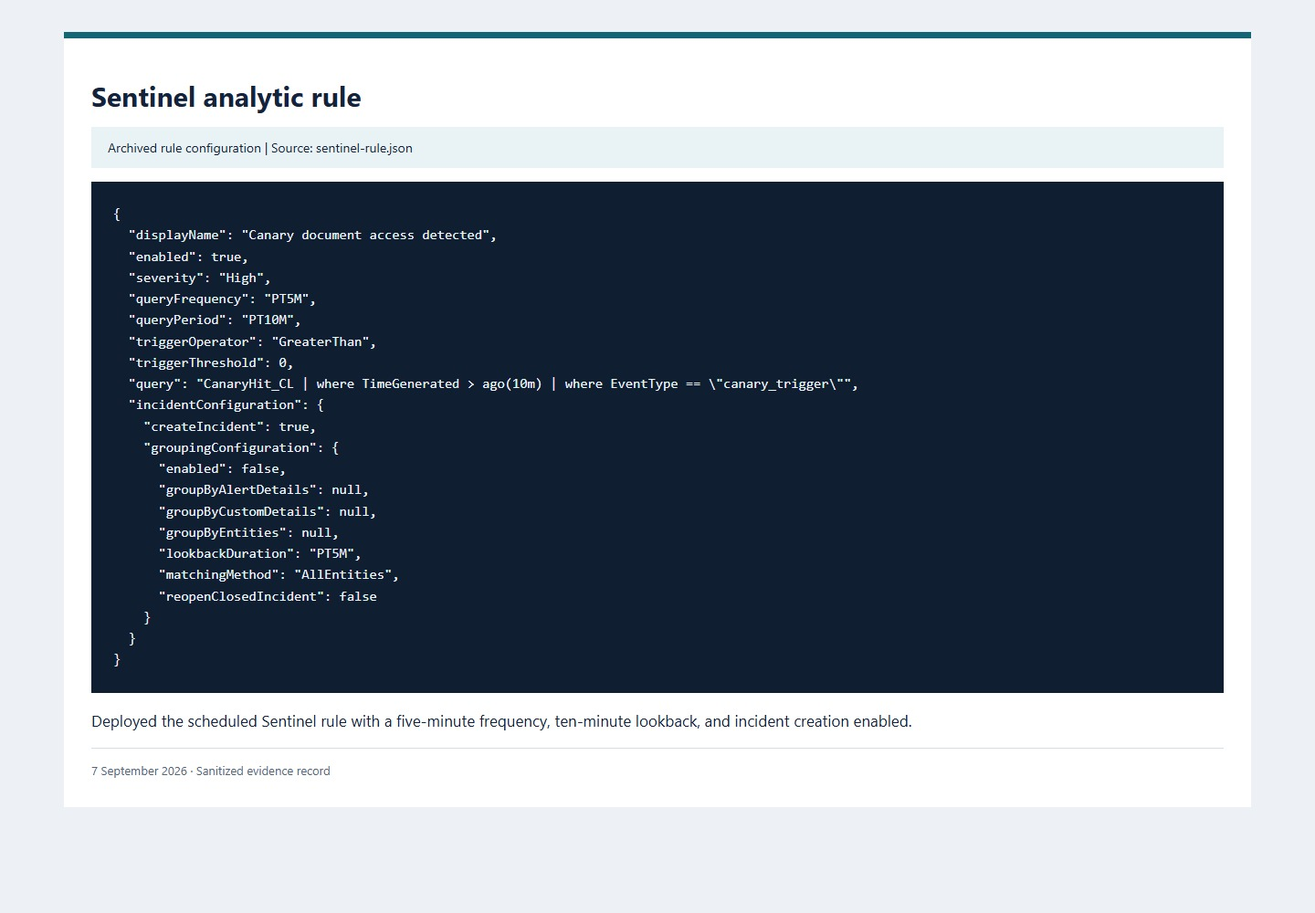
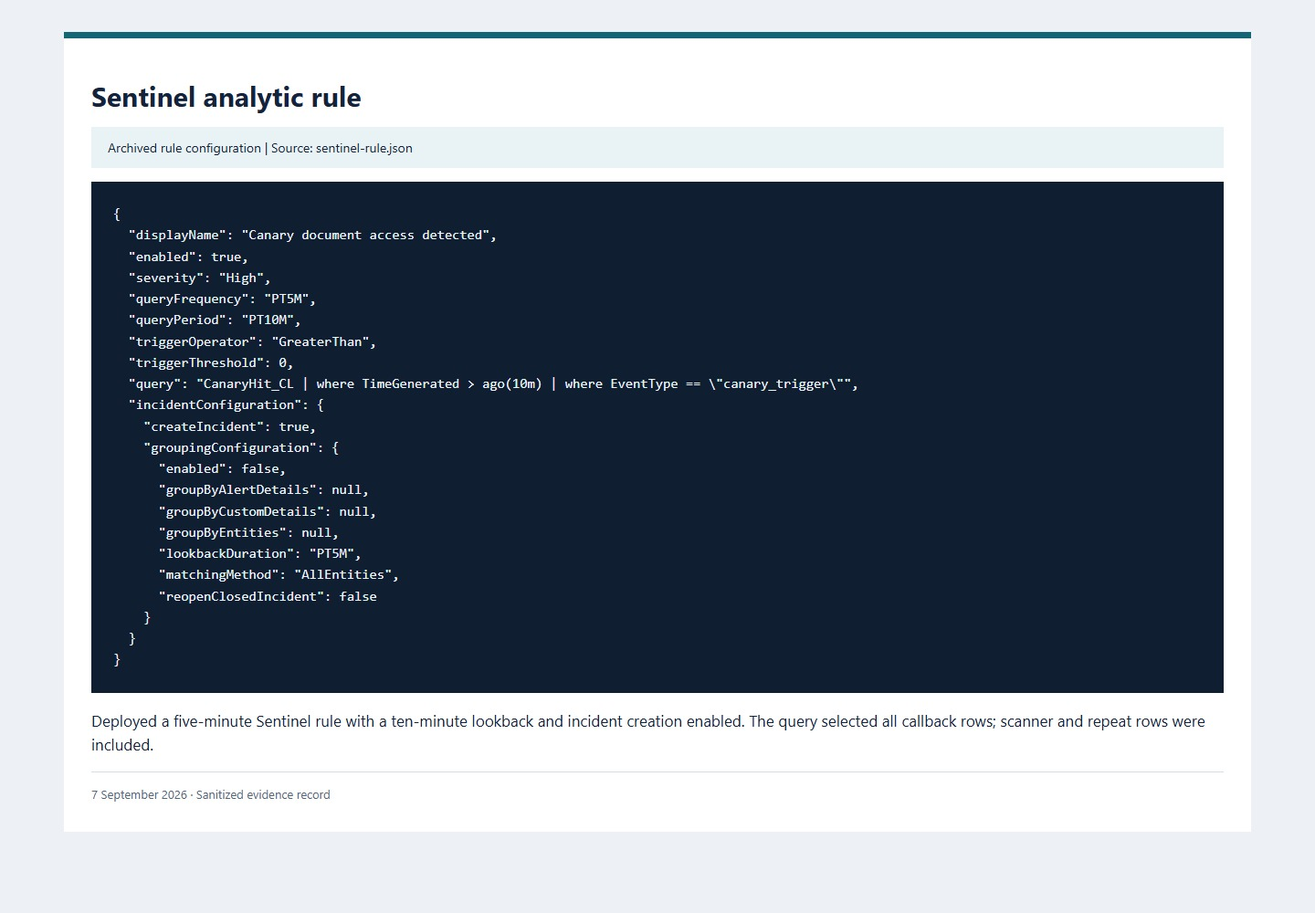
Tighten project scope and reconcile documentation with implementation

Changed region(s): [[0.125, 0.775, 0.9062, 0.806], [0.0625, 0.806, 0.25, 0.899]]

diff --git a/docs/evidence/public/index.html b/docs/evidence/public/index.html
@@ -1,1 +1,1 @@
-<!doctype html><html lang="en"><meta charset="utf-8"><meta name="viewport" content="width=device-width,initial-scale=1"><title>Honey Token — validation walkthrough</title><style>body{margin:0;background:#edf1f5;color:#14233b;font:17px/1.55 Segoe UI,Arial}main{max-width:1240px;margin:35px auto;padding:30px;background:white;border-top:7px solid #126675}h1{font-size:30px;margin:10px 0}.meta{padding:12px 18px;background:#e9f2f4;font-size:14px}pre{white-space:pre-wrap;overflow-wrap:anywhere;font:15px/1.55 Consolas,monospace;background:#101e32;color:#ebf3fa;padding:24px}footer{font-size:13px;color:#53677c;border-top:1px solid #d4dee6;padding-top:14px}a{color:#126675}img{max-width:100%;height:auto}article{margin:36px 0;padding-top:20px;border-top:1px solid #ccd5dc}</style><main><h1>Honey Token</h1><p>Project walkthrough recorded on 7 September 2026, covering setup, deployment, document retrieval, event triage, Sentinel ingestion, and tests. Word and GitHub images are application captures. Azure images display saved API and query records, rather than the Azure portal. No teardown was performed.</p><p>Account details, email addresses, source IPs, tenant/subscription identifiers, callback tokens, and resource endpoints are redacted or excluded. Raw records remain outside this package.</p><h2>Project walkthrough</h2><ol><li><a href="#step01">Purpose and architecture</a></li><li><a href="#step02">Starting state and baseline</a></li><li><a href="#step03">Infrastructure deployment</a></li><li><a href="#step04">Receiver security configuration</a></li><li><a href="#step05">Deployed receiver health</a></li><li><a href="#step06">Word renders the synthetic decoy</a></li><li><a href="#step07">Word callback and triage</a></li><li><a href="#step08">Persisted events and delivery outcomes</a></li><li><a href="#step09">Log Analytics ingestion</a></li><li><a href="#step10">Sentinel analytic rule</a></li><li><a href="#step11">Sentinel incident</a></li><li><a href="#step12">GitHub main CI status</a></li><li><a href="#step13">GitHub test job</a></li><li><a href="#step14">GitHub pytest log</a></li><li><a href="#step15">Local regression and SMTP delivery</a></li><li><a href="#step16">Secret scanning</a></li><li><a href="#step17">Limitations and teardown status</a></li></ol><article id="step01"><h2>01. Purpose and architecture</h2><div class="meta">Design summary | Source: ARCHITECTURE.md</div><p>Extended the local document-token receiver with Azure Table Storage and Sentinel ingestion. Word and cloud callbacks were exercised separately.</p><a href="01-evidence.jpg"><img loading="lazy" src="01-evidence.jpg" alt="Purpose and architecture"></a></article><article id="step02"><h2>02. Starting state and baseline</h2><div class="meta">Archived record, captured 2026-09-07 | Source: 00-azure-start-state.json + docs/BASELINE.md</div><p>Recorded the local SQLite starting point and nine passing baseline tests before adding the Azure adapters.</p><a href="02-evidence.jpg"><img loading="lazy" src="02-evidence.jpg" alt="Starting state and baseline"></a></article><article id="step03"><h2>03. Infrastructure deployment</h2><div class="meta">Archived Azure deployment response | Source: 03-bicep-final-deployment.json</div><p>Deployed the Bicep resources successfully. Resource identifiers and endpoint values are omitted from the saved response.</p><a href="03-evidence.jpg"><img loading="lazy" src="03-evidence.jpg" alt="Infrastructure deployment"></a></article><article id="step04"><h2>04. Receiver security configuration</h2><div class="meta">Source configuration evidence | Source: infra/main.bicep</div><p>Disabled registry admin access, storage shared keys, HTTP ingress, and public management routes in the deployment configuration.</p><a href="04-evidence.jpg"><img loading="lazy" src="04-evidence.jpg" alt="Receiver security configuration"></a></article><article id="step05"><h2>05. Deployed receiver health</h2><div class="meta">Archived HTTP result | Source: 09-container-app-health.json</div><p>Requested the deployed health endpoint; it returned HTTP 200 with receiver-only mode and Azure Table Storage.</p><a href="05-evidence.jpg"><img loading="lazy" src="05-evidence.jpg" alt="Deployed receiver health"></a></article><article id="step06"><h2>06. Word renders the synthetic decoy</h2><div class="meta">Microsoft Word UI capture | Source: Word 16.0.20326.20132</div><p>Opened the generated synthetic document in Word. The local callback it produced is recorded in image 07.</p><a href="06-word-decoy.png"><img loading="lazy" src="06-word-decoy.png" alt="Word renders the synthetic decoy"></a></article><article id="step07"><h2>07. Word callback and triage</h2><div class="meta">Archived event from observed Word open | Source: word-viewer-result.json</div><p>Captured the Office User-Agent and high-severity event when Word requested the loopback pixel.</p><a href="07-evidence.jpg"><img loading="lazy" src="07-evidence.jpg" alt="Word callback and triage"></a></article><article id="step08"><h2>08. Persisted events and delivery outcomes</h2><div class="meta">Archived Azure Table query | Source: table-events-sanitized.json</div><p>Queried stored events and retained both successful delivery outcomes and the first failed ingestion attempt.</p><a href="08-evidence.jpg"><img loading="lazy" src="08-evidence.jpg" alt="Persisted events and delivery outcomes"></a></article><article id="step09"><h2>09. Log Analytics ingestion</h2><div class="meta">Archived CanaryHit_CL query | Source: log-analytics-latest.json</div><p>Queried four ingested records, including a scanner classification and a suppressed repeat notification.</p><a href="09-evidence.jpg"><img loading="lazy" src="09-evidence.jpg" alt="Log Analytics ingestion"></a></article><article id="step10"><h2>10. Sentinel analytic rule</h2><div class="meta">Archived rule configuration | Source: sentinel-rule.json</div><p>Deployed the scheduled Sentinel rule with a five-minute frequency, ten-minute lookback, and incident creation enabled.</p><a href="10-evidence.jpg"><img loading="lazy" src="10-evidence.jpg" alt="Sentinel analytic rule"></a></article><article id="step11"><h2>11. Sentinel incident</h2><div class="meta">Archived Sentinel incident response | Source: sentinel-incidents.json</div><p>Recorded the resulting high-severity Sentinel incident. Account and resource identifiers are omitted.</p><a href="11-evidence.jpg"><img loading="lazy" src="11-evidence.jpg" alt="Sentinel incident"></a></article><article id="step12"><h2>12. GitHub main CI status</h2><div class="meta">capture of completed GitHub run | Source: Actions run 34152044446, commit 2858824</div><p>Captured the completed main-branch CI run after the application fixes.</p><a href="12-github-ci-status.jpg"><img loading="lazy" src="12-github-ci-status.jpg" alt="GitHub main CI status"></a></article><article id="step13"><h2>13. GitHub test job</h2><div class="meta">GitHub UI capture | Source: Actions run 34152044446</div><p>Captured the successful test job in the same GitHub Actions run.</p><a href="13-github-test-job.jpg"><img loading="lazy" src="13-github-test-job.jpg" alt="GitHub test job"></a></article><article id="step14"><h2>14. GitHub pytest log</h2><div class="meta">GitHub UI capture | Source: Job 101836165394 in Actions run 34152044446</div><p>Captured the pytest output from the completed GitHub test job.</p><a href="14-github-pytest-output.jpg"><img loading="lazy" src="14-github-pytest-output.jpg" alt="GitHub pytest log"></a></article><article id="step15"><h2>15. Local regression and SMTP delivery</h2><div class="meta">verification output | Source: portfolio/pytest.txt + tests/test_smtp_delivery.py</div><p>Ran the suite, including delivery to a local SMTP sink and the SMTP-failure regression. Sixteen tests passed.</p><a href="15-evidence.jpg"><img loading="lazy" src="15-evidence.jpg" alt="Local regression and SMTP delivery"></a></article><article id="step16"><h2>16. Secret scanning</h2><div class="meta">Gitleaks output | Source: portfolio/gitleaks.txt</div><p>Scanned the tracked history with Gitleaks; the recorded scan found no secrets.</p><a href="16-evidence.jpg"><img loading="lazy" src="16-evidence.jpg" alt="Secret scanning"></a></article><article id="step17"><h2>17. Limitations and teardown status</h2><div class="meta">Operational notes | Source: CASE_STUDY.md + COST_AND_TEARDOWN.md</div><p>Added the scoped teardown script but did not run it. Delivery retries, rate limiting, and integrity controls remained unfinished.</p><a href="17-evidence.jpg"><img loading="lazy" src="17-evidence.jpg" alt="Limitations and teardown status"></a></article></main></html>
+<!doctype html><html lang="en"><meta charset="utf-8"><meta name="viewport" content="width=device-width,initial-scale=1"><title>Honey Token — validation walkthrough</title><style>body{margin:0;background:#edf1f5;color:#14233b;font:17px/1.55 Segoe UI,Arial}main{max-width:1240px;margin:35px auto;padding:30px;background:white;border-top:7px solid #126675}h1{font-size:30px;margin:10px 0}.meta{padding:12px 18px;background:#e9f2f4;font-size:14px}pre{white-space:pre-wrap;overflow-wrap:anywhere;font:15px/1.55 Consolas,monospace;background:#101e32;color:#ebf3fa;padding:24px}footer{font-size:13px;color:#53677c;border-top:1px solid #d4dee6;padding-top:14px}a{color:#126675}img{max-width:100%;height:auto}article{margin:36px 0;padding-top:20px;border-top:1px solid #ccd5dc}</style><main><h1>Honey Token</h1><p>Project walkthrough recorded on 7 September 2026, covering setup, deployment, document retrieval, event triage, Sentinel ingestion, and tests. Word and GitHub images are application captures. Azure images display saved API and query records, rather than the Azure portal. No teardown was performed.</p><p>Account details, email addresses, source IPs, tenant/subscription identifiers, callback tokens, and resource endpoints are redacted or excluded. Raw records remain outside this package.</p><h2>Project walkthrough</h2><ol><li><a href="#step01">Purpose and architecture</a></li><li><a href="#step02">Starting state and baseline</a></li><li><a href="#step03">Infrastructure deployment</a></li><li><a href="#step04">Receiver security configuration</a></li><li><a href="#step05">Deployed receiver health</a></li><li><a href="#step06">Word renders the synthetic decoy</a></li><li><a href="#step07">Word callback and triage</a></li><li><a href="#step08">Persisted events and delivery outcomes</a></li><li><a href="#step09">Log Analytics ingestion</a></li><li><a href="#step10">Sentinel analytic rule</a></li><li><a href="#step11">Sentinel incident</a></li><li><a href="#step12">GitHub main CI status</a></li><li><a href="#step13">GitHub test job</a></li><li><a href="#step14">GitHub pytest log</a></li><li><a href="#step15">Local regression and SMTP delivery</a></li><li><a href="#step16">Secret scanning</a></li><li><a href="#step17">Limitations and teardown status</a></li></ol><article id="step01"><h2>01. Purpose and architecture</h2><div class="meta">Design summary | Source: ARCHITECTURE.md</div><p>Extended the local document-token receiver with Azure Table Storage and Sentinel ingestion. Word and cloud callbacks were exercised separately.</p><a href="01-evidence.jpg"><img loading="lazy" src="01-evidence.jpg" alt="Purpose and architecture"></a></article><article id="step02"><h2>02. Starting state and baseline</h2><div class="meta">Archived record, captured 2026-09-07 | Source: 00-azure-start-state.json + docs/BASELINE.md</div><p>Recorded the local SQLite starting point and nine passing baseline tests before adding the Azure adapters.</p><a href="02-evidence.jpg"><img loading="lazy" src="02-evidence.jpg" alt="Starting state and baseline"></a></article><article id="step03"><h2>03. Infrastructure deployment</h2><div class="meta">Archived Azure deployment response | Source: 03-bicep-final-deployment.json</div><p>Deployed the Bicep resources successfully. Resource identifiers and endpoint values are omitted from the saved response.</p><a href="03-evidence.jpg"><img loading="lazy" src="03-evidence.jpg" alt="Infrastructure deployment"></a></article><article id="step04"><h2>04. Receiver security configuration</h2><div class="meta">Source configuration evidence | Source: infra/main.bicep</div><p>Disabled registry admin access and storage shared keys, required HTTPS, and disabled public management routes in the deployment configuration.</p><a href="04-evidence.jpg"><img loading="lazy" src="04-evidence.jpg" alt="Receiver security configuration"></a></article><article id="step05"><h2>05. Deployed receiver health</h2><div class="meta">Archived HTTP result | Source: 09-container-app-health.json</div><p>Requested the deployed health endpoint; it returned HTTP 200 with receiver-only mode and Azure Table Storage.</p><a href="05-evidence.jpg"><img loading="lazy" src="05-evidence.jpg" alt="Deployed receiver health"></a></article><article id="step06"><h2>06. Word renders the synthetic decoy</h2><div class="meta">Microsoft Word UI capture | Source: Word 16.0.20326.20132</div><p>Opened the generated synthetic document in Word. The local callback it produced is recorded in image 07.</p><a href="06-word-decoy.png"><img loading="lazy" src="06-word-decoy.png" alt="Word renders the synthetic decoy"></a></article><article id="step07"><h2>07. Word callback and triage</h2><div class="meta">Archived event from observed Word open | Source: word-viewer-result.json</div><p>Captured the Office User-Agent and high-severity event when Word requested the loopback pixel.</p><a href="07-evidence.jpg"><img loading="lazy" src="07-evidence.jpg" alt="Word callback and triage"></a></article><article id="step08"><h2>08. Persisted events and delivery outcomes</h2><div class="meta">Archived Azure Table query | Source: table-events-sanitized.json</div><p>Queried stored events and retained both successful delivery outcomes and the first failed ingestion attempt.</p><a href="08-evidence.jpg"><img loading="lazy" src="08-evidence.jpg" alt="Persisted events and delivery outcomes"></a></article><article id="step09"><h2>09. Log Analytics ingestion</h2><div class="meta">Archived CanaryHit_CL query | Source: log-analytics-latest.json</div><p>Queried four ingested records, including a scanner classification and a suppressed repeat notification.</p><a href="09-evidence.jpg"><img loading="lazy" src="09-evidence.jpg" alt="Log Analytics ingestion"></a></article><article id="step10"><h2>10. Sentinel analytic rule</h2><div class="meta">Archived rule configuration | Source: sentinel-rule.json</div><p>Deployed a five-minute Sentinel rule with a ten-minute lookback and incident creation enabled. The query selected all callback rows; scanner and repeat rows were included.</p><a href="10-evidence.jpg"><img loading="lazy" src="10-evidence.jpg" alt="Sentinel analytic rule"></a></article><article id="step11"><h2>11. Sentinel incident</h2><div class="meta">Archived Sentinel incident response | Source: sentinel-incidents.json</div><p>Recorded the resulting high-severity Sentinel incident. Account and resource identifiers are omitted.</p><a href="11-evidence.jpg"><img loading="lazy" src="11-evidence.jpg" alt="Sentinel incident"></a></article><article id="step12"><h2>12. GitHub main CI status</h2><div class="meta">GitHub UI capture | Source: Actions run 34152044446, commit 2858824</div><p>Captured the completed main-branch CI run after the application fixes.</p><a href="12-github-ci-status.jpg"><img loading="lazy" src="12-github-ci-status.jpg" alt="GitHub main CI status"></a></article><article id="step13"><h2>13. GitHub test job</h2><div class="meta">GitHub UI capture | Source: Actions run 34152044446</div><p>Captured the successful test job in the same GitHub Actions run.</p><a href="13-github-test-job.jpg"><img loading="lazy" src="13-github-test-job.jpg" alt="GitHub test job"></a></article><article id="step14"><h2>14. GitHub pytest log</h2><div class="meta">GitHub UI capture | Source: Job 101836165394 in Actions run 34152044446</div><p>Captured the pytest output from the completed GitHub test job.</p><a href="14-github-pytest-output.jpg"><img loading="lazy" src="14-github-pytest-output.jpg" alt="GitHub pytest log"></a></article><article id="step15"><h2>15. Local regression and SMTP delivery</h2><div class="meta">Recorded test output | Source: portfolio/pytest.txt + tests/test_smtp_delivery.py</div><p>Ran the suite, including delivery to a local SMTP sink and the SMTP-failure regression. Sixteen tests passed.</p><a href="15-evidence.jpg"><img loading="lazy" src="15-evidence.jpg" alt="Local regression and SMTP delivery"></a></article><article id="step16"><h2>16. Secret scanning</h2><div class="meta">Gitleaks output | Source: portfolio/gitleaks.txt</div><p>Scanned the tracked history with Gitleaks; the recorded scan found no secrets.</p><a href="16-evidence.jpg"><img loading="lazy" src="16-evidence.jpg" alt="Secret scanning"></a></article><article id="step17"><h2>17. Limitations and teardown status</h2><div class="meta">Operational notes | Source: LIMITATIONS.md + COST_AND_TEARDOWN.md</div><p>Recorded the resource state at the end of the run. The cleanup command and operational constraints are documented separately.</p><a href="17-evidence.jpg"><img loading="lazy" src="17-evidence.jpg" alt="Limitations and teardown status"></a></article></main></html>

diff --git a/docs/evidence/public/01-evidence.html b/docs/evidence/public/01-evidence.html
@@ -1,9 +1,8 @@
-<!doctype html><html lang="en"><meta charset="utf-8"><title>Purpose and architecture</title><style>body{margin:0;background:#edf1f5;color:#14233b;font:17px/1.55 Segoe UI,Arial}main{max-width:1240px;margin:35px auto;padding:30px;background:white;border-top:7px solid #126675}h1{font-size:30px;margin:10px 0}.meta{padding:12px 18px;background:#e9f2f4;font-size:14px}pre{white-space:pre-wrap;overflow-wrap:anywhere;font:15px/1.55 Consolas,monospace;background:#101e32;color:#ebf3fa;padding:24px}footer{font-size:13px;color:#53677c;border-top:1px solid #d4dee6;padding-top:14px}a{color:#126675}img{max-width:100%;height:auto}article{margin:36px 0;padding-top:20px;border-top:1px solid #ccd5dc}</style><main><h1>Purpose and architecture</h1><div class="meta">Design summary | Source: ARCHITECTURE.md</div><pre>Synthetic decoy DOCX
-  -&gt; unique external callback
-  -&gt; receiver records event
-  -&gt; scanner-aware triage
-  -&gt; console / SMTP decision
-  -&gt; persisted evidence
-  -&gt; optional DCR / Log Analytics
-  -&gt; scheduled Sentinel rule
-  -&gt; incident</pre><p>Extended the local document-token receiver with Azure Table Storage and Sentinel ingestion. Word and cloud callbacks were exercised separately.</p><footer>7 September 2026 · Sanitized evidence record</footer></main></html>
+<!doctype html><html lang="en"><meta charset="utf-8"><title>Purpose and architecture</title><style>body{margin:0;background:#edf1f5;color:#14233b;font:17px/1.55 Segoe UI,Arial}main{max-width:1240px;margin:35px auto;padding:30px;background:white;border-top:7px solid #126675}h1{font-size:30px;margin:10px 0}.meta{padding:12px 18px;background:#e9f2f4;font-size:14px}pre{white-space:pre-wrap;overflow-wrap:anywhere;font:15px/1.55 Consolas,monospace;background:#101e32;color:#ebf3fa;padding:24px}footer{font-size:13px;color:#53677c;border-top:1px solid #d4dee6;padding-top:14px}a{color:#126675}img{max-width:100%;height:auto}article{margin:36px 0;padding-top:20px;border-top:1px solid #ccd5dc}</style><main><h1>Purpose and architecture</h1><div class="meta">Design summary | Source: ARCHITECTURE.md</div><pre>Local document test
+  Generated DOCX -&gt; Word -&gt; loopback receiver
+  -&gt; SQLite event -&gt; classification -&gt; console alert
+
+Separate cloud test
+  Controlled HTTPS request -&gt; Azure receiver
+  -&gt; Table Storage event -&gt; notification outcome
+  -&gt; DCR -&gt; CanaryHit_CL -&gt; scheduled rule -&gt; Sentinel incident</pre><p>Extended the local document-token receiver with Azure Table Storage and Sentinel ingestion. Word and cloud callbacks were exercised separately.</p><footer>7 September 2026 · Sanitized evidence record</footer></main></html>

diff --git a/docs/evidence/public/17-evidence.html b/docs/evidence/public/17-evidence.html
@@ -1,8 +1,7 @@
-<!doctype html><html lang="en"><meta charset="utf-8"><title>Limitations and teardown status</title><style>body{margin:0;background:#edf1f5;color:#14233b;font:17px/1.55 Segoe UI,Arial}main{max-width:1240px;margin:35px auto;padding:30px;background:white;border-top:7px solid #126675}h1{font-size:30px;margin:10px 0}.meta{padding:12px 18px;background:#e9f2f4;font-size:14px}pre{white-space:pre-wrap;overflow-wrap:anywhere;font:15px/1.55 Consolas,monospace;background:#101e32;color:#ebf3fa;padding:24px}footer{font-size:13px;color:#53677c;border-top:1px solid #d4dee6;padding-top:14px}a{color:#126675}img{max-width:100%;height:auto}article{margin:36px 0;padding-top:20px;border-top:1px solid #ccd5dc}</style><main><h1>Limitations and teardown status</h1><div class="meta">Operational notes | Source: CASE_STUDY.md + COST_AND_TEARDOWN.md</div><pre>Deployment considerations:
-- callback may be blocked or offline
-- scanner requests can cause false positives
-- source IP is not identity
-- no automatic delivery retry worker
-- rate limits, retention and integrity need deployment controls
+<!doctype html><html lang="en"><meta charset="utf-8"><title>Limitations and teardown status</title><style>body{margin:0;background:#edf1f5;color:#14233b;font:17px/1.55 Segoe UI,Arial}main{max-width:1240px;margin:35px auto;padding:30px;background:white;border-top:7px solid #126675}h1{font-size:30px;margin:10px 0}.meta{padding:12px 18px;background:#e9f2f4;font-size:14px}pre{white-space:pre-wrap;overflow-wrap:anywhere;font:15px/1.55 Consolas,monospace;background:#101e32;color:#ebf3fa;padding:24px}footer{font-size:13px;color:#53677c;border-top:1px solid #d4dee6;padding-top:14px}a{color:#126675}img{max-width:100%;height:auto}article{margin:36px 0;padding-top:20px;border-top:1px solid #ccd5dc}</style><main><h1>Limitations and teardown status</h1><div class="meta">Operational notes | Source: LIMITATIONS.md + COST_AND_TEARDOWN.md</div><pre>Resource lifecycle
+  Dedicated project resource group deployed
+  Scoped teardown script added with explicit confirmation
+  Teardown not performed in the recorded run
+  Cost measurement not captured
 
-Teardown was not performed.</pre><p>Added the scoped teardown script but did not run it. Delivery retries, rate limiting, and integrity controls remained unfinished.</p><footer>7 September 2026 · Sanitized evidence record</footer></main></html>
+Operational scope documented in LIMITATIONS.md</pre><p>Recorded the resource state at the end of the run. The cleanup command and operational constraints are documented separately.</p><footer>7 September 2026 · Sanitized evidence record</footer></main></html>

diff --git a/docs/evidence/public/15-evidence.html b/docs/evidence/public/15-evidence.html
@@ -1,4 +1,4 @@
-<!doctype html><html lang="en"><meta charset="utf-8"><title>Local regression and SMTP delivery</title><style>body{margin:0;background:#edf1f5;color:#14233b;font:17px/1.55 Segoe UI,Arial}main{max-width:1240px;margin:35px auto;padding:30px;background:white;border-top:7px solid #126675}h1{font-size:30px;margin:10px 0}.meta{padding:12px 18px;background:#e9f2f4;font-size:14px}pre{white-space:pre-wrap;overflow-wrap:anywhere;font:15px/1.55 Consolas,monospace;background:#101e32;color:#ebf3fa;padding:24px}footer{font-size:13px;color:#53677c;border-top:1px solid #d4dee6;padding-top:14px}a{color:#126675}img{max-width:100%;height:auto}article{margin:36px 0;padding-top:20px;border-top:1px solid #ccd5dc}</style><main><h1>Local regression and SMTP delivery</h1><div class="meta">verification output | Source: portfolio/pytest.txt + tests/test_smtp_delivery.py</div><pre>................                                                         [100%]
+<!doctype html><html lang="en"><meta charset="utf-8"><title>Local regression and SMTP delivery</title><style>body{margin:0;background:#edf1f5;color:#14233b;font:17px/1.55 Segoe UI,Arial}main{max-width:1240px;margin:35px auto;padding:30px;background:white;border-top:7px solid #126675}h1{font-size:30px;margin:10px 0}.meta{padding:12px 18px;background:#e9f2f4;font-size:14px}pre{white-space:pre-wrap;overflow-wrap:anywhere;font:15px/1.55 Consolas,monospace;background:#101e32;color:#ebf3fa;padding:24px}footer{font-size:13px;color:#53677c;border-top:1px solid #d4dee6;padding-top:14px}a{color:#126675}img{max-width:100%;height:auto}article{margin:36px 0;padding-top:20px;border-top:1px solid #ccd5dc}</style><main><h1>Local regression and SMTP delivery</h1><div class="meta">Recorded test output | Source: portfolio/pytest.txt + tests/test_smtp_delivery.py</div><pre>................                                                         [100%]
 ============================== warnings summary ===============================
 .venv\Lib\site-packages\fastapi\testclient.py:1
   [LOCAL USER REDACTED]\Downloads\canary-honeytoken-work-20260907\canary-honeytoken-mvp\.venv\Lib\site-packages\fastapi\testclient.py:1: StarletteDeprecationWarning: Using `httpx` with `starlette.testclient` is deprecated; install `httpx2` instead.

diff --git a/docs/evidence/public/04-evidence.html b/docs/evidence/public/04-evidence.html
@@ -6,4 +6,4 @@ allowInsecure: false
 { name: &#x27;CANARY_RECEIVER_ONLY&#x27;, value: &#x27;true&#x27; }
 
 Scoped roles: AcrPull; Storage Table Data Contributor; Monitoring Metrics Publisher.
-Management routes return 404 in receiver-only mode.</pre><p>Disabled registry admin access, storage shared keys, HTTP ingress, and public management routes in the deployment configuration.</p><footer>7 September 2026 · Sanitized evidence record</footer></main></html>
+Management routes return 404 in receiver-only mode.</pre><p>Disabled registry admin access and storage shared keys, required HTTPS, and disabled public management routes in the deployment configuration.</p><footer>7 September 2026 · Sanitized evidence record</footer></main></html>

diff --git a/docs/evidence/public/10-evidence.html b/docs/evidence/public/10-evidence.html
@@ -19,4 +19,4 @@
       &quot;reopenClosedIncident&quot;: false
     }
   }
-}</pre><p>Deployed the scheduled Sentinel rule with a five-minute frequency, ten-minute lookback, and incident creation enabled.</p><footer>7 September 2026 · Sanitized evidence record</footer></main></html>
+}</pre><p>Deployed a five-minute Sentinel rule with a ten-minute lookback and incident creation enabled. The query selected all callback rows; scanner and repeat rows were included.</p><footer>7 September 2026 · Sanitized evidence record</footer></main></html>

diff --git a/docs/SETUP.md b/docs/SETUP.md
@@ -1,6 +1,6 @@
 # Run Honey Token
 
-Run these commands from the repository root. The local example uses synthetic documents and a loopback receiver.
+Run these commands from the repository root. The local example uses synthetic documents and a loopback receiver. In Windows PowerShell, use `curl.exe` wherever the Bash examples use `curl`.
 
 ## Quick start
 
@@ -34,6 +34,8 @@ pip install -r requirements.txt
 uvicorn app.main:app --reload --no-access-log
 ```
 
+Leave the API running. Open a second terminal in the repository root and activate the same virtual environment for the remaining commands.
+
 Check:
 
 ```bash
@@ -48,11 +50,8 @@ Expected:
 
 ### 4. Create a financial-document decoy
 
-```bash
-python -m app.cli create \
-  --name "Finance bait" \
-  --filename "Synthetic_Forecast.docx" \
-  --format docx
+```text
+python -m app.cli create --name "Finance bait" --filename "Synthetic_Forecast.docx" --format docx
 ```
 
 The command returns a token ID, callback URL and generated decoy path.
@@ -62,7 +61,7 @@ The command returns a token ID, callback URL and generated decoy path.
 Call the callback URL returned by the CLI:
 
 ```bash
-curl -A "Lab-Validation" "http://127.0.0.1:8000/t/YOUR_TOKEN/pixel.gif" -o /dev/null
+curl -A "Lab-Validation" "http://127.0.0.1:8000/t/YOUR_TOKEN/pixel.gif" --output pixel.gif
 ```
 
 You should see a console alert and an event in:
@@ -79,19 +78,21 @@ http://127.0.0.1:8000/docs
 
 ### 6. Open the document
 
-Open the generated file on a lab endpoint that can reach the callback server. Record whether the viewer actually requests the external resource. If it does not, treat that as an observed product-control limitation rather than trying to bypass the viewer's security controls.
+Open the generated file on the same machine as the loopback receiver. If the viewer loads external content, its pixel request will appear in `/api/events`. Viewer coverage is recorded in [COMPATIBILITY.md](../COMPATIBILITY.md). Leave Office and endpoint security policies in place.
 
 ## Azure deployment
 
-The checked-in Azure path provisions a dedicated resource group with a Basic ACR, user-assigned managed identity, Consumption Container App, Standard LRS Table Storage, Log Analytics, a Direct Data Collection Rule and a Microsoft Sentinel scheduled rule. The receiver image is unchanged application code packaged in the existing `Dockerfile`; Azure switches only the storage and ingestion adapters through environment variables.
+Install Azure CLI, sign in, and select the intended subscription before running the scripts:
 
 ```powershell
+az login
+az account set --subscription '<subscription name or id>'
 .\scripts\azure\preflight.ps1
 .\scripts\azure\deploy.ps1
 .\scripts\azure\validate.ps1
 ```
 
-The deployed receiver exposes `/health` and `/t/<token>/pixel.gif`. It returns 404 for `/api/*` so management operations stay local to an authenticated operator process. The runtime uses its managed identity for ACR pull, Azure Table Storage and Logs Ingestion. It does not use storage keys, registry admin credentials, or callback secrets in the container configuration. `CanaryHit_CL` receives only a hashed canary identifier and normalized event fields.
+The scripts create billable resources. [AZURE_DEPLOYMENT.md](../AZURE_DEPLOYMENT.md) records the deployed components; [COST_AND_TEARDOWN.md](../COST_AND_TEARDOWN.md) contains the cleanup command. The Azure receiver exposes health and callback routes; management operations remain local.
 
 ## Management API protection
 
@@ -101,15 +102,23 @@ The callback route stays public because the token is the tripwire identifier. Ma
 CANARY_MANAGEMENT_API_KEY=use-a-secret-from-your-secret-store
 ```
 
+Bash:
+
 ```bash
 curl -H "X-Canary-API-Key: $CANARY_MANAGEMENT_API_KEY" http://127.0.0.1:8000/api/events
+```
+
+PowerShell:
+
+```powershell
+curl.exe -H "X-Canary-API-Key: $env:CANARY_MANAGEMENT_API_KEY" http://127.0.0.1:8000/api/events
 ```
 
 Use TLS at a trusted reverse proxy for remote deployments. Never put the key in source control, a decoy, or a URL.
 
 ## Email alerts
 
-The default alert mode is `console`. To use SMTP, configure environment variables based on `.env.example`:
+The default alert mode is `console`. To use SMTP, set the process environment variables listed in `.env.example` before starting the API. The application reads the process environment; creating a `.env` file alone does not load these values:
 
 ```text
 CANARY_ALERT_MODE=email
@@ -145,19 +154,6 @@ Each callback produces a structured event:
 ```
 
 A small scanner heuristic reduces obvious automated requests to `medium` severity. Correlate these events with endpoint, identity, and audit telemetry during investigation.
-
-An investigation can follow this sequence:
-
-```text
-Canary fires
-   -> identify token/decoy
-   -> determine source context
-   -> correlate user + endpoint
-   -> inspect file-access/DLP events
-   -> scope related activity
-   -> decide benign scanner vs suspicious access
-   -> contain/escalate if supported by evidence
-```
 
 ## API
 

diff --git a/CASE_STUDY.md b/CASE_STUDY.md
@@ -2,7 +2,7 @@
 
 The starting service generated decoy documents, stored callbacks in SQLite, and sent console or SMTP alerts. The Azure work added a durable receiver and connected its events to Microsoft Sentinel without exposing the management API.
 
-Work recorded on 7 September 2026 used Windows 11, Python 3.13.14, and Azure in `southcentralus`.
+The work was completed on 7 September 2026 using Windows 11, Python 3.13.14, and Azure in `southcentralus`.
 
 ## Started with the local receiver
 
@@ -24,15 +24,15 @@ The deployment was changed to read `dcr.properties.endpoints.logsIngestion` from
 
 ## Opened the generated document in Word
 
-Word 16.0.20326.20132 displayed the synthetic financial document and requested its loopback pixel at `2026-09-07T18:27:35.267154+00:00`. SQLite recorded the Office User-Agent, high severity, and a sent console alert.
+Word 16.0.20326.20132 displayed the synthetic financial document and requested its loopback pixel at 18:27 UTC. SQLite recorded the Office User-Agent, high severity, and a sent console alert.
 
-This was a local document-to-local receiver test. The Azure path used controlled HTTP requests; Word-to-Azure retrieval was not exercised. Office and endpoint policies were left unchanged.
+The document test ran against the local receiver under the existing Office and endpoint policies. The Azure test used controlled HTTP requests.
 
 ## Exercised repeats, scanners, and revocation
 
 A curl request received medium severity and the classification `Possible automated scanner interaction`. A repeated request remained stored but its notification was suppressed; the ingested row recorded `FirstHit=false` and `RepeatCount=1`. Disabling the token changed the callback response to HTTP 404.
 
-The SMTP test delivered a triage-derived message to an ephemeral loopback sink. Two callbacks produced one email, and both events remained stored. No external mailbox was used.
+The SMTP test delivered a message containing the event classification and severity to a temporary local mail sink. Two callbacks produced one email, and both events remained stored. No external mailbox was used.
 
 ## Fixed notification and management failures
 
@@ -42,10 +42,8 @@ A non-ASCII management key could also cause a server error during comparison. Th
 
 The Docker build context was restricted to application files, Compose was bound to loopback, and Uvicorn access logs were disabled because callback paths contained live tokens. The final suite passed 16 tests with two dependency deprecation warnings.
 
-## Remaining work
+## Project scope
 
-No retry worker, distributed atomic suppression, ingress rate limiter, or tamper-evident archive was added. Cloud SMTP, Protected View, separate-endpoint Word, and mobile viewers remained untested. The resource group had not been torn down, and no cost measurement was captured.
-
-The observed callbacks established resource retrieval. They did not establish who opened a document or whether data was exfiltrated.
+Testing covered local Word callbacks and a separate Azure-to-Sentinel path. User attribution and exfiltration detection were outside the project's scope. [Operational limits](LIMITATIONS.md) and [viewer coverage](COMPATIBILITY.md) are documented separately.
 
 [View the screenshots](docs/evidence/public/README.md) · [Run the project](docs/SETUP.md) · [Test details](TESTING.md)

diff --git a/LIMITATIONS.md b/LIMITATIONS.md
@@ -1,10 +1,23 @@
-# Limitations
+# Operational limits
 
-- A callback requires network access and a viewer that resolves the external DOCX relationship.
-- Protected View, Office external-content policy, proxy controls, DNS, or endpoint security may block the request.
-- The callback proves that the canary resource was requested; it does not prove a human read the document or that a compromise occurred.
-- Source IP may represent NAT, VPN, a corporate proxy, a mobile carrier, or a security scanner.
-- A knowledgeable adversary can inspect or remove an external relationship.
-- Table Storage is durable project evidence but is not a tamper-evident forensic store.
-- The outbox records delivery state. Failed deliveries require manual investigation; there is no automatic retry worker.
-- Management APIs are intentionally unavailable in Azure receiver-only mode; provisioning uses an authenticated local operator process.
+## Collection and attribution
+
+The DOCX callback depends on network access and a viewer loading the external image relationship. External-content policy, Protected View, proxies, DNS controls, or endpoint security can block it. The relationship can also be removed from the document.
+
+A stored callback records a resource request. Source IPs can belong to NAT gateways, VPNs, proxies, or scanners. The project did not correlate these records with identity or endpoint telemetry and did not detect data exfiltration.
+
+## Delivery and storage
+
+Delivery remained synchronous. Failed notifications were recorded, but no automatic retry worker was implemented. Duplicate suppression was best effort across concurrent receiver instances; it did not provide atomic suppression across instances.
+
+Azure Table Storage retained events and delivery outcomes. It was not configured as a tamper-evident archive, and no project retention policy was implemented.
+
+## Cloud deployment
+
+The receiver used Azure HTTPS ingress without a project-level rate limiter or WAF. Management routes were disabled in the deployed receiver. Provisioning used a separate local operator process.
+
+The Sentinel rule used a five-minute schedule and ten-minute lookback. It selected all `canary_trigger` rows, including scanner and repeat events, and assigned the rule's configured high severity. Receiver notification suppression did not suppress Sentinel rule evaluation. Overlapping query windows could select the same event again.
+
+## Coverage
+
+SMTP delivery was exercised against a local test sink; cloud SMTP was not configured. [COMPATIBILITY.md](COMPATIBILITY.md) records Word and viewer coverage. [COST_AND_TEARDOWN.md](COST_AND_TEARDOWN.md) records resource lifecycle and cost status.

diff --git a/docs/evidence/public/README.md b/docs/evidence/public/README.md
@@ -34,7 +34,7 @@ Deployed the Bicep resources successfully. Resource identifiers and endpoint val
 
 **Source configuration evidence** — Source: `infra/main.bicep`.
 
-Disabled registry admin access, storage shared keys, HTTP ingress, and public management routes in the deployment configuration.
+Disabled registry admin access and storage shared keys, required HTTPS, and disabled public management routes in the deployment configuration.
 
 ![Receiver security configuration](04-evidence.jpg)
 
@@ -82,7 +82,7 @@ Queried four ingested records, including a scanner classification and a suppress
 
 **Archived rule configuration** — Source: `sentinel-rule.json`.
 
-Deployed the scheduled Sentinel rule with a five-minute frequency, ten-minute lookback, and incident creation enabled.
+Deployed a five-minute Sentinel rule with a ten-minute lookback and incident creation enabled. The query selected all callback rows; scanner and repeat rows were included.
 
 ![Sentinel analytic rule](10-evidence.jpg)
 
@@ -96,7 +96,7 @@ Recorded the resulting high-severity Sentinel incident. Account and resource ide
 
 ## 12. GitHub main CI status
 
-**capture of completed GitHub run** — Source: `Actions run 34152044446, commit 2858824`.
+**GitHub UI capture** — Source: `Actions run 34152044446, commit 2858824`.
 
 Captured the completed main-branch CI run after the application fixes.
 
@@ -120,7 +120,7 @@ Captured the pytest output from the completed GitHub test job.
 
 ## 15. Local regression and SMTP delivery
 
-**verification output** — Source: `portfolio/pytest.txt + tests/test_smtp_delivery.py`.
+**Recorded test output** — Source: `portfolio/pytest.txt + tests/test_smtp_delivery.py`.
 
 Ran the suite, including delivery to a local SMTP sink and the SMTP-failure regression. Sixteen tests passed.
 
@@ -136,8 +136,8 @@ Scanned the tracked history with Gitleaks; the recorded scan found no secrets.
 
 ## 17. Limitations and teardown status
 
-**Operational notes** — Source: `CASE_STUDY.md + COST_AND_TEARDOWN.md`.
+**Operational notes** — Source: `LIMITATIONS.md + COST_AND_TEARDOWN.md`.
 
-Added the scoped teardown script but did not run it. Delivery retries, rate limiting, and integrity controls remained unfinished.
+Recorded the resource state at the end of the run. The cleanup command and operational constraints are documented separately.
 
 ![Limitations and teardown status](17-evidence.jpg)

diff --git a/TESTING.md b/TESTING.md
@@ -4,16 +4,16 @@ The local baseline passed nine tests. After the Azure adapters and failure-handl
 
 | Scenario exercised | Result |
 | --- | --- |
-| Callback, scanner, repeat, and revoked token | Stored events, scanner classification, suppression, and 404 behavior matched the assertions |
+| Callback, scanner, repeat, and revoked token | Callbacks were stored; scanner requests received medium severity; repeats were suppressed; revoked tokens returned 404 |
 | DOCX generation | Package contained the external image relationship; malformed filenames were rejected |
 | Management authentication | Unauthenticated remote requests were rejected; non-ASCII credentials returned 401 |
 | Receiver-only routing | Management endpoints returned 404 |
-| SMTP sink | One triage-derived email arrived for two callbacks; both events persisted |
+| SMTP sink | One email containing the event classification and severity arrived for two callbacks; both events persisted |
 | SMTP failure | Event retained a failed status, response remained a GIF, Sentinel ingestion was still attempted |
 | Missing Sentinel adapter | Ingestion status was recorded as disabled |
 | Event redaction | Public event output excluded raw callback identifiers |
 
-The Azure run used controlled HTTPS callbacks and produced Table records, Log Analytics rows, and a Sentinel incident. The separate Word test retrieved a loopback callback from a generated local DOCX. Cloud SMTP, Word-to-Azure retrieval, Protected View, and other viewers were not exercised.
+The Azure run used controlled HTTPS callbacks and produced Table records, Log Analytics rows, and a Sentinel incident. The separate Word test retrieved a loopback callback from a generated local DOCX. [Viewer coverage](COMPATIBILITY.md) and [operational limits](LIMITATIONS.md) record the tests outside those paths.
 
 ## Run the suite
 

diff --git a/README.md b/README.md
@@ -22,9 +22,7 @@ Word 16.0.20326.20132 retrieved the local document's callback. The receiver stor
 
 The [case study](CASE_STUDY.md) follows the implementation and the failures fixed along the way. The [screenshot walkthrough](docs/evidence/public/README.md) contains the application captures and sanitized records from the work.
 
-## Scope left open
-
-Word-to-Azure retrieval, Protected View, mobile viewers, and cloud SMTP were not tested. Automatic delivery retries, atomic suppression across instances, rate limiting, and tamper-evident retention were not implemented. Callback telemetry did not establish user identity or data exfiltration.
+The project focused on document callbacks and event handling. [Operational limits](LIMITATIONS.md) and [viewer coverage](COMPATIBILITY.md) describe the boundaries of the work.
 
 ## Repository guide
 
@@ -34,11 +32,12 @@ Word-to-Azure retrieval, Protected View, mobile viewers, and cloud SMTP were not
 | [Architecture](ARCHITECTURE.md) | Local and cloud paths used in the work |
 | [Azure deployment](AZURE_DEPLOYMENT.md) | Resources and permissions deployed |
 | [Sentinel](SENTINEL.md) | Ingestion failure, rule configuration, and incident |
-| [Tests](TESTING.md) | Scenarios exercised and remaining coverage |
+| [Tests](TESTING.md) | Scenarios exercised and recorded results |
 | [Setup](docs/SETUP.md) | Commands, API examples, and SMTP configuration |
 | [Security](SECURITY.md) | Controls implemented and deployment constraints |
 | [Compatibility](COMPATIBILITY.md) | Document viewer results |
 | [Cost and teardown](COST_AND_TEARDOWN.md) | Resource lifecycle and cleanup command |
+| [Cloud components](docs/CLOUD_COMPONENTS.md) | Implementation inventory |
 
 The lab used synthetic documents. Deployment is limited to systems the operator owns or is authorized to monitor.
 
